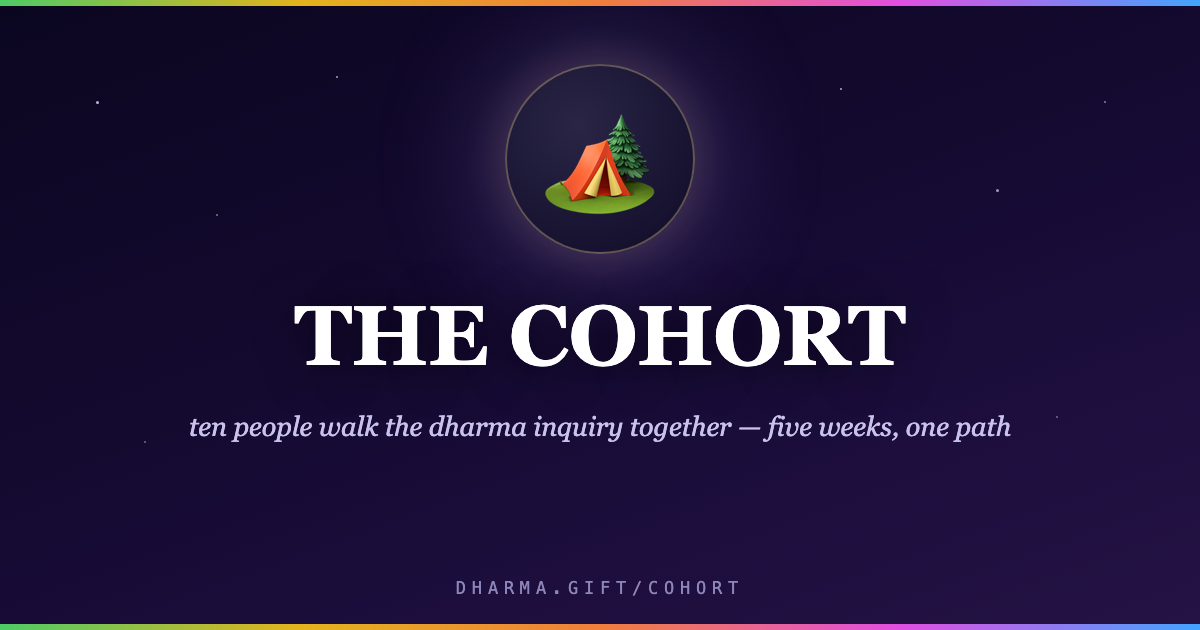
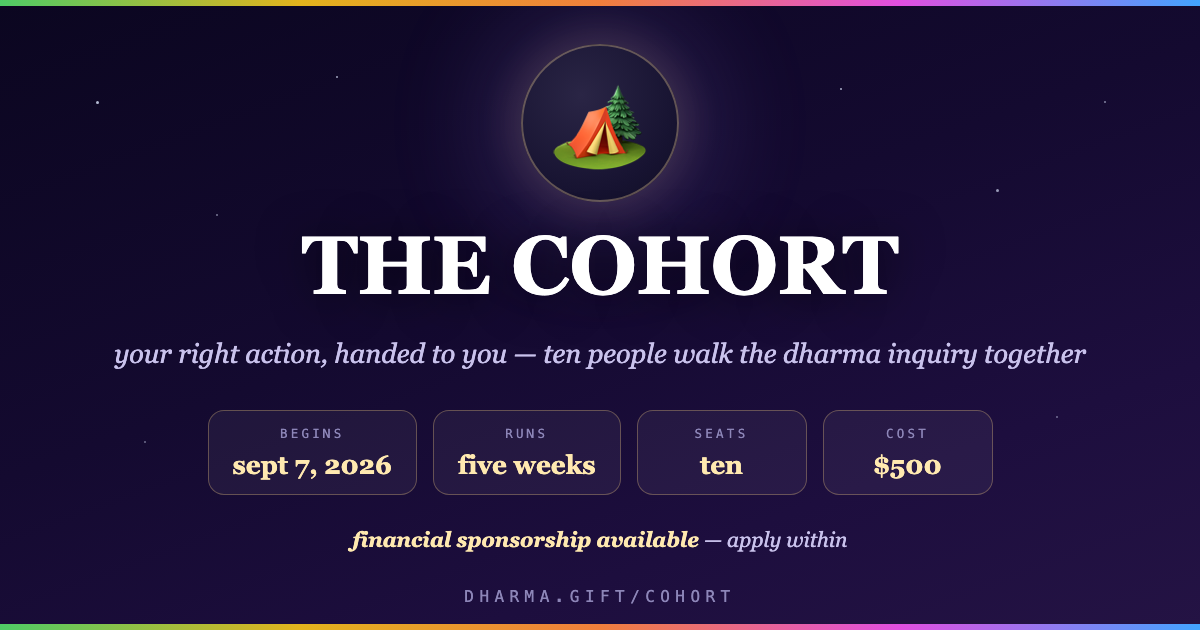
the cohort speaks to you, not about itself — your right action, handed to you; sponsorship named twice; the share card carries the details
- the value prop is the site's own gloss (dharma · your right action ✦
  gift · handed to you), worn as the vestibule's mono line; the beats now
  talk about the reader getting honest in a circle of ten, not about six
  questions or feature lists.
- financial sponsorship is available and said so twice: a fifth details
  row and a whisper under the apply button.
- og-cohort.png goes bespoke: a details card — sept 7 2026 · five weeks ·
  ten seats · $500 · sponsorship available — bumped to ?v=2 and pulled
  out of cardgen so a rerun can't clobber it.

diff --git a/html/cohort.html b/html/cohort.html
@@ -31,15 +31,15 @@
 <meta property="og:type" content="website">
 <meta property="og:url" content="https://dharma.gift/cohort">
 <meta property="og:title" content="the cohort — walk the dharma inquiry together">
-<meta property="og:description" content="the primary way through dharma.gift: ten people walk the dharma inquiry together — five weeks, one structured path, the feedback loops built in. begins september 7, 2026. $500 — $100 a week. ten seats.">
-<meta property="og:image" content="https://dharma.gift/og-cohort.png?v=1">
+<meta property="og:description" content="dharma · your right action ✦ gift · handed to you. ten people and five weeks that create the conditions in which your dharma gets handed to you. begins september 7, 2026 · $500 — financial sponsorship available · ten seats.">
+<meta property="og:image" content="https://dharma.gift/og-cohort.png?v=2">
 <meta property="og:image:width" content="1200">
 <meta property="og:image:height" content="630">
 <meta name="twitter:card" content="summary_large_image">
 <meta name="twitter:title" content="the cohort — walk the dharma inquiry together">
-<meta name="twitter:description" content="ten people, five weeks, one structured path. begins september 7, 2026. apply within.">
-<meta name="twitter:image" content="https://dharma.gift/og-cohort.png?v=1">
-<meta name="description" content="the cohort is the primary way through dharma.gift — ten people exploring the dharma inquiry together over five weeks, on a structured path with the feedback loops built in. begins september 7, 2026.">
+<meta name="twitter:description" content="your right action, handed to you. ten people · five weeks · begins september 7, 2026. sponsorship available.">
+<meta name="twitter:image" content="https://dharma.gift/og-cohort.png?v=2">
+<meta name="description" content="the cohort is the primary way through dharma.gift — ten people, five weeks, one circle: the conditions in which your right action gets handed to you. begins september 7, 2026. $500, financial sponsorship available.">
 <style>
   /* Hallmark · macrostructure: pinned-canvas scrollytell (camp network) · verb: redesign
    * theme: dharma.gift locked system (fraunces · era ramp · ember-lux dark) · nav: house back-pill
@@ -113,6 +113,10 @@
   .abig b{color:var(--e2);font-weight:640}
   .awh{margin:0;font:italic 400 clamp(15px,2.2vw,18px)/1.7 var(--serif);color:#c4b6ad}
   .awh b{font-style:normal;font-weight:600;color:var(--ink)}
+  /* the site's own gloss, worn as the value prop — same dress as the landing's expansion */
+  .exp{margin:16px 0 0;font:600 clamp(10px,1.6vw,11.5px)/2 var(--mono);
+    letter-spacing:.22em;text-transform:uppercase;color:#8f887e}
+  .exp .w1{color:var(--e1)} .exp .w5{color:var(--e5)}
   .acue{margin-top:30px;font-size:20px;color:var(--dim);animation:acuejig 1.6s ease-in-out infinite}
   @keyframes acuejig{0%,100%{transform:translateY(0);opacity:.35}50%{transform:translateY(6px);opacity:1}}
   @media (prefers-reduced-motion:reduce){ .acue{animation:none;opacity:.6} }
@@ -140,6 +144,7 @@
   .fr .fv i{display:block;font:italic 400 12px/1.5 var(--serif);color:var(--dim)}
   .fr:nth-child(1) .fv{color:#f0d98a} .fr:nth-child(2) .fv{color:#a8dfb2}
   .fr:nth-child(3) .fv{color:#a9cdf5} .fr:nth-child(4) .fv{color:#f3b78d}
+  .fr:nth-child(5) .fv{color:#e8b7e8}
 
   /* ================= the floor: the door in, after the scene releases ================= */
   .floor{position:relative;z-index:2;max-width:680px;margin:0 auto;
@@ -162,6 +167,8 @@
   @media (prefers-reduced-motion:reduce){ a.cta{animation:none} }
   @media(max-width:520px){ a.cta{padding:17px 32px;font-size:19px} }
   .floor .whisper{margin:18px auto 0;font:italic 400 14.5px/1.6 var(--serif);color:var(--muted)}
+  .floor .whisper b{font-style:normal;color:var(--ink)}
+  .floor .whisper+.whisper{margin-top:8px}
 
   /* the other way: off-roading, named honestly */
   .offroad{max-width:620px;margin:11svh auto 0;padding:24px 28px;border-radius:20px;
@@ -211,8 +218,8 @@
         <div class="depthmark">· the walked path ·</div>
         <h1>the cohort</h1>
         <p class="abig">walk it <b>together</b>.</p>
-        <p class="awh">ten people · five weeks · one structured path through the
-          <b>dharma inquiry</b>.</p>
+        <p class="exp"><span class="w1">dharma</span> · your right action
+          &nbsp;✦&nbsp; <span class="w5">gift</span> · handed to you</p>
         <div class="acue" aria-hidden="true">⌄</div>
       </div>
     </div>
@@ -221,12 +228,11 @@
       <div class="bw">
         <div class="bcard">
           <div class="bk">🏕️ · the camp</div>
-          <p>the dharma inquiry is the heart of this site — six doors of questions
-            that only work if you actually <b>sit with them</b>.</p>
+          <p>you already carry a sense of what's yours to do. it goes quiet under
+            the noise of ordinary weeks — and alone, <b>the noise usually wins</b>.</p>
           <hr class="bhr" aria-hidden="true">
-          <p>the cohort sits with them together: <b>ten people</b>, camped on the
-            same ground, walking the same week you are.
-            <i>watch — the other tents are waking.</i></p>
+          <p>in a circle of ten, it can't. you sit down, you write, you say the
+            true thing out loud. <i>watch — the other tents are waking.</i></p>
         </div>
       </div>
     </div>
@@ -235,12 +241,12 @@
       <div class="bw">
         <div class="bcard">
           <div class="bk">🧵 · the threads</div>
-          <p>week by week the threads grow. the structure is set for you.
-            the pace is shared. and the feedback loops — the part that's hardest
-            to build alone — <b>come with the room</b>:</p>
+          <p>week by week, you get more honest. nine people learn your patterns,
+            hear your excuses, and hand back what you actually said —
+            <b>the reflection a notebook can't give you</b>.</p>
           <hr class="bhr" aria-hidden="true">
-          <p>what you write gets <b>reflected back</b> — the loop a notebook
-            can't close alone.</p>
+          <p>that's the gift: not answers — the conditions in which your
+            <b>right action gets handed to you</b>.</p>
         </div>
       </div>
     </div>
@@ -258,6 +264,8 @@
               <span class="fv">ten<i>a circle, not a crowd</i></span></div>
             <div class="fr"><span class="fk">cost</span>
               <span class="fv">$500<i>$100 a week</i></span></div>
+            <div class="fr"><span class="fk">sponsorship</span>
+              <span class="fv">available<i>ask in the application</i></span></div>
           </div>
         </div>
       </div>
@@ -270,6 +278,8 @@
     <p class="lede">the camp is woven.<br><b>one seat is yours, if you want it.</b></p>
     <a class="cta" data-apply href="#">🏕️ apply for a seat<span class="aro">→</span></a>
     <p class="whisper">ten seats. when they're taken, they're taken.</p>
+    <p class="whisper">money shouldn't be the wall — <b>financial sponsorship is
+      available</b>, right in the application.</p>
 
     <div class="offroad">
       <div class="k">🥾 or, off-road</div>

diff --git a/cardgen.py b/cardgen.py
@@ -74,7 +74,7 @@ CARDS = [
   ("og-bargain","🍎","the bargain","what we lose with progress — four names for the deal",DEFAULT_TAG,"/bargain"),
   ("og-crises","🌪️","the crises","twenty-four crises, three families, one census","you're not crazy.","/crises"),
   ("og-skills","🧗","the skills","the inner game of the ai transition","dharma is the capstone.","/skills"),
-  ("og-cohort","🏕️","the cohort","ten people walk the dharma inquiry together — five weeks, one path","begins september 7, 2026. ten seats. apply within.","/cohort"),
+  # og-cohort is bespoke now (a details card: dates, seats, cost, sponsorship) — not generated here
   ("og-inquiry","🪷","the inquiry","six doors into what is yours to do","the dharma inquiry, quoted whole. bring paper.","/inquiry"),
   ("og-sensemaking","🔦","sensemaking","how to see clearly when the fog is manufactured","signal from noise, before you act.","/sensemaking"),
   ("og-islands","🏝️","islands of coherence","communities that already solved it — protocols, not stories","somewhere, a town figured it out.","/islands"),

diff --git a/CLAUDE.md b/CLAUDE.md
@@ -5,7 +5,7 @@ a wisdom school in alpha — the front door is now **dharma.gift** (a monk under
 the layers, outermost first:
 
 - `index.html` — the **dharma.gift landing** at `/`: a wordless hero — no kicker, no copy, no button. the sky keeps the **visitor's local time** (`data-sky` = dawn/day/dusk/night, stamped on `<html>` before first paint next to the theme; each phase swaps the hero gradient, stars, window lights, city ink `.blds`, and cityglow; meteors only at night). five era-colored trees sway on the fold — the fold IS the ground line — and a **huge monk** IS the hero (jhana-style: 🧘 at ~250px in a dark heart circle, a vast breathing halo pool, 6s breath-aura oval, heartbeat scale, four era-colored conic-gradient coherence rings, shimmer pulses — all geometry, no blur filters; click him to cycle faces, persisted in `localStorage['dg-monk']`), seated under the center tree, flanked by the city and unbothered by it. a **warm sun** (`.sun`) breathes behind his head — peaceful sunlight, always there — and his **qi drips out the bottom of the bubble** (`.qi`, animated golden beads) while a matching golden seed (hue 5) feeds the mycelium from x=.5 just below the fold. underground (`#deepen`): the live canvas mycelium (#myc/#flow), the DHARMA**.gift** wordmark (five inks + a gold `.tld`), the expansion ("dharma · <definition> ✦ gift · handed to you") whose dharma definition **rotates through nine translations** every ~4.6s and **flies to the next on click** (`#ddef`, quick-fade class `.quick`; auto-rotation off under reduced-motion, click still works), and — down at the bottom of the roots — the gate floor now sells the **cohort first**: a `.glede` whisper ("ten people walk the dharma inquiry together — five weeks, one structured path, begins september 7, 2026"), the big rainbow button **🏕️ join the cohort** → `/cohort`, then a `.tg` off-road line ("going alone instead? that's off-roading — 🪷 enter the inquiry" → /inquiry) and the telegram `.tg` line (the `.btw` alpha small-print was removed site-wide 2026-07-18). (the threshold rooms still exist at /threshold → /threshold2 → /orient, just off the main path.) no alpha banner, no door-roots canvas, no page section below the soil. the legacy-hash forwarder (`/#trust/...` → `/spiral#trust/...`) excludes `#deepen`. card: `og-dharma.png`. the base url is https://dharma.gift — every canonical/og url points there, and vercel.json forwards the old hosts (resource.gitcoin.co, upwardspiral.io, www.upwardspiral.io) here.
-- `cohort.html` — **THE COHORT** (`/cohort`, 🏕️): **the primary offering of dharma.gift** — ten people explore the dharma inquiry together on one structured path over five weeks, beginning **september 7, 2026**, for **$500 ($100/week)**; applications go through a typeform. the doctrine everywhere else follows from this page: the cohort is the *walked path*, and going through the site solo is **off-roading** (you bring the reading discipline, build your own structure, make your own feedback loops). the page is a **pinned-canvas scrollytell** (the landing-descent/metacrisis grammar): `.cstage` (sticky 100svh, `margin-bottom:-100svh`) holds `#campcv`, and one scroll fraction t — read off `#cbeats`' bounding rect — drives the scene: **ten tents on one dark ground under twinkling stars**. tent 0 (yours, larger, low center) is lit on arrival; the other nine **wake one by one** through t≈.14–.43 (`WAKE` gates), then **eighteen mycelial threads grow between them** through t≈.40–.85 (`EDGES` + `G0/GSPREAD/GLEN` windows — gently drooping precomputed wander-paths with a bright growing tip), and **qi beads ride the finished threads** both ways, clock-driven, so the woven camp keeps breathing when the reader stops. tents wear the era inks ×2 (glow pools, embers, flickering doorways — soft-under-crisp strokes, no filters); rAF self-throttles via IntersectionObserver; reduced-motion renders the fully-woven camp once, static. four beats ride over the scene in gold-hairline frosted `.bcard`s (backdrop-blur is fine, they're static): 01 the vestibule (h1 + "walk it together.") · 02 the camp (what this is; "watch — the other tents are waking") · 03 the threads (structure/pace/feedback) · 04 the details as a menu-set `.facts` list (hairline rules, big fraunces values). then the `.floor`: "the camp is woven. one seat is yours, if you want it." + rainbow river CTA **🏕️ apply for a seat** + the `.offroad` dashed panel naming the solo path honestly (quiet pill into `/inquiry`) + telegram. a fixed `.vig` presses the edges dark — the luxury is the enclosure. ★ every apply button reads the `APPLY` constant in the script at the bottom of the file — it currently holds a `REPLACE-ME` typeform placeholder; swap in the real url there, in one place. card: `og-cohort.png` (in cardgen.py, `?v=1`), favicon 🏕️.
+- `cohort.html` — **THE COHORT** (`/cohort`, 🏕️): **the primary offering of dharma.gift** — ten people explore the dharma inquiry together on one structured path over five weeks, beginning **september 7, 2026**, for **$500 ($100/week)**; applications go through a typeform. the doctrine everywhere else follows from this page: the cohort is the *walked path*, and going through the site solo is **off-roading** (you bring the reading discipline, build your own structure, make your own feedback loops). the page is a **pinned-canvas scrollytell** (the landing-descent/metacrisis grammar): `.cstage` (sticky 100svh, `margin-bottom:-100svh`) holds `#campcv`, and one scroll fraction t — read off `#cbeats`' bounding rect — drives the scene: **ten tents on one dark ground under twinkling stars**. tent 0 (yours, larger, low center) is lit on arrival; the other nine **wake one by one** through t≈.14–.43 (`WAKE` gates), then **eighteen mycelial threads grow between them** through t≈.40–.85 (`EDGES` + `G0/GSPREAD/GLEN` windows — gently drooping precomputed wander-paths with a bright growing tip), and **qi beads ride the finished threads** both ways, clock-driven, so the woven camp keeps breathing when the reader stops. tents wear the era inks ×2 (glow pools, embers, flickering doorways — soft-under-crisp strokes, no filters); rAF self-throttles via IntersectionObserver; reduced-motion renders the fully-woven camp once, static. four beats ride over the scene in gold-hairline frosted `.bcard`s (backdrop-blur is fine, they're static): 01 the vestibule (h1 + "walk it together.") · 02 the camp (what this is; "watch — the other tents are waking") · 03 the threads (structure/pace/feedback) · 04 the details as a menu-set `.facts` list (hairline rules, big fraunces values). then the `.floor`: "the camp is woven. one seat is yours, if you want it." + rainbow river CTA **🏕️ apply for a seat** + the `.offroad` dashed panel naming the solo path honestly (quiet pill into `/inquiry`) + telegram. a fixed `.vig` presses the edges dark — the luxury is the enclosure. the copy is **audience-first, present-tense** (kevin's spec 2026-07-18): the value prop is the site's own gloss — *dharma · your right action ✦ gift · handed to you* (worn as a mono `.exp` line in the vestibule) — the cohort creates **the conditions in which your right action gets handed to you**; never sell it on the six questions or feature lists. **financial sponsorship is available** and said twice: a fifth `.facts` row ("sponsorship — available · ask in the application") and a second `.whisper` under the apply CTA ("money shouldn't be the wall"). ★ every apply button reads the `APPLY` constant in the script at the bottom of the file — it currently holds a `REPLACE-ME` typeform placeholder; swap in the real url there, in one place. card: `og-cohort.png` — **bespoke** (the details card; NOT in cardgen.py, at `?v=2`), favicon 🏕️.
 - **the off-road bar** (`.obar`): every page where a reader consumes the corpus solo carries a slim grey ribbon pinned under the rainbar — *"🥾 heads up — you're off-roading. the structure, the discipline, the intentionality — out here, you bring them."* + a gold pill CTA *"🏕️ want them built in? join the cohort →"* (`/cohort`). it lives on **/inquiry, /sensemaking, /orient, /islands** (fixed, `top:3px`, z:94; the long clause `.ol` hides ≤600px; the `.back` pill drops to `top:56px`/`84px`, and orient — whose back button is in-flow — takes `.page{padding-top:82px/106px}` instead) and on **/spiral** (static in-flow above `.page`, theme-aware: `var(--panel)/--line/--muted/--ink` + a `--obg` gold that swaps #a17a00 light / #e3b31d dark — covers all 26 views). /orbit skips it (its 3d HUD owns the top edge). the cohort page itself never carries it — it IS the road. the bar is snoozable, not killable: an `.ox` ✕ pill on its right edge hides it with **exponential backoff** — 15 min on the first dismissal, then 30, doubling each time, capped at 24h (`min(15·2ⁿ, 1440)` minutes). state is shared across every off-road page in `localStorage['dg-ob-until']` (wake timestamp) + `['dg-ob-n']` (dismissal count, never resets); a tiny script right after the bar's markup stamps `html.ob-snooze` before the bar paints, re-syncs on the cross-tab `storage` event (dismissing on one page silences every open off-road tab at once), and arms a timer so the bar walks back the moment the snooze expires even if the reader never reloads; the layout offsets (back-pill drop / orient's page padding) are scoped `html:not(.ob-snooze)` so the chrome snaps back when the bar sleeps. when a new self-serve page is added, paste the bar + its script in.
 - `threshold.html` — the **threshold** (`/threshold`): the room between the landing and the depth. a crystal cave — roots overhead (you came in through them), five crystal clusters in the era inks glowing from the floor (geometry only: glow-pool ellipses + facet lines, pulse animations) — and the offer, arriving line by line: *if you want to* / **find your purpose** (gold) / **find your peace** (blue) / **find your dharma** (magenta) / **explore new mental models** (green) / *then this site is for you.* one CTA: **continue →** `/threshold2` (the thresholds are a sequence). card: `og-threshold.png`, favicon 💎.
 - `threshold2.html` — the **second threshold** (`/threshold2`, the next room after `/threshold`): a DIFFERENT room — teal-dark stone, the crystals hang from the **ceiling** (same svg, `scaleY(-1)`), a water-glow pool rises at the floor, and the **crises loom in the background** (`.looms`: small half-legible italic phrases — climate destabilization, misaligned ai, engineered plagues… — in dim alarm-red and ash-gray, breathing on slow offset cycles; rotation rides `--rot` inside the keyframe transform). the offer: *if you're* / **anxious about the state of the world** / **wondering where crises come from** / **looking for a reprieve from chaos** / *we offer a reprieve:* / **a problem well understood is half solved** (gold gradient) *~ john dewey*. its **continue →** opens `/orient`. card: `og-threshold2.png`, favicon 🔮.
@@ -26,7 +26,7 @@ the layers, outermost first:
 
 ## the one hard rule: every new page ships with its own twitter card
 
-when you create a new page (a new tab/view + its `<name>.html` stub), it MUST get its own social card. ALL cards were regenerated 2026-07-16 in the **dharma.gift family**: dark purple gradient, rainbow hairlines, one BIG emoji in a glowing glyph circle, a huge uppercase serif title, one italic serif line, `DHARMA.GIFT/<path>` footer — simplified 2026-07-16 for click-appeal (no kicker, no sparkles, no tagline). the generator is `cardgen.py` at the repo root — add the new page to its `CARDS` list, run it (writes html into a `cards/` dir next to it), and screenshot each at 1200×630 into `html/og-<name>.png`. three cards are bespoke and NOT in the generator (regenerating would clobber them): `og-dharma.png` (the monk), `og-threshold.png` and `og-threshold2.png` (the crystal rooms). every page's `og:image`/`twitter:image` urls currently carry `?v=4` — bump the number whenever a card is regenerated, on every page that references it.
+when you create a new page (a new tab/view + its `<name>.html` stub), it MUST get its own social card. ALL cards were regenerated 2026-07-16 in the **dharma.gift family**: dark purple gradient, rainbow hairlines, one BIG emoji in a glowing glyph circle, a huge uppercase serif title, one italic serif line, `DHARMA.GIFT/<path>` footer — simplified 2026-07-16 for click-appeal (no kicker, no sparkles, no tagline). the generator is `cardgen.py` at the repo root — add the new page to its `CARDS` list, run it (writes html into a `cards/` dir next to it), and screenshot each at 1200×630 into `html/og-<name>.png`. four cards are bespoke and NOT in the generator (regenerating would clobber them): `og-dharma.png` (the monk), `og-threshold.png` and `og-threshold2.png` (the crystal rooms), and `og-cohort.png` (a details card — glyph, "your right action, handed to you", four fact chips sept 7 2026 · five weeks · ten · $500, and the sponsorship line; regenerate it whenever the next cohort's details change, and bump its `?v=`). every page's `og:image`/`twitter:image` urls currently carry `?v=4` — bump the number whenever a card is regenerated, on every page that references it.
 
 1. **image**: `og-<name>.png`, 1200×630, repo root. match the landing card's family: dark purple gradient bg, rainbow hairline bars top+bottom, mono `UPWARDSPIRAL.IO` kicker, big white all-caps title, letterspaced gradient mono subtitle, corner glyph circles, ✦ sparkles, italic tagline, footer ending `dharma.gift/<name>`. central art should echo the page's own visualization. build it as a 1200×630 html page and screenshot headlessly:
    `chrome-headless-shell --headless --screenshot=og-<name>.png --window-size=1200,630 --hide-scrollbars file://...`